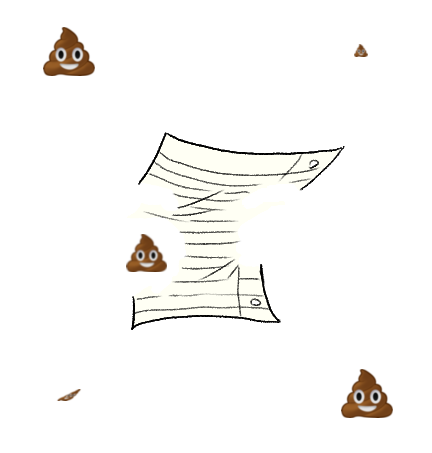
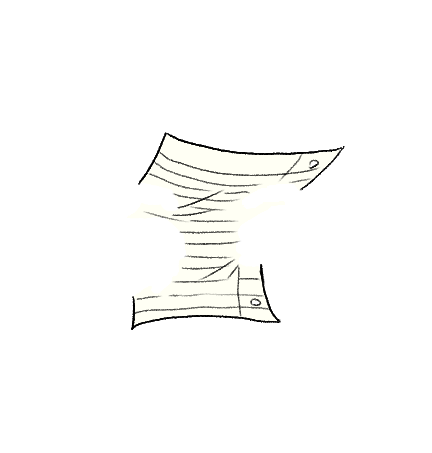
Added source/target differentiation for SpruceTask

diff --git a/addons/marathon_task_runner/task_runner/tasks/spruce/spruce.py b/addons/marathon_task_runner/task_runner/tasks/spruce/spruce.py
@@ -6,6 +6,7 @@ import sys
 import time
 from PIL import Image, ImageChops
 
+SUPPORTED_EXTS = [".png", ".jpg", ".jpeg"]
 progress = 0
 
 def str2bool(value: str) -> bool:
@@ -129,16 +130,20 @@ class Rect:
 
 
 class TargetImage:
-	def __init__(self, root, file):
-		self.root = root
-		self.file = file
-		self.full = os.path.join(root, file)
-		self.name, self.ext = os.path.splitext(file)
+	def __init__(self, dir_path_src, file_path_src, dir_path_tgt):
+		self.dir_path_src = dir_path_src
+		self.file_path_src = file_path_src
+		self.full_path_src = os.path.join(dir_path_src, file_path_src)
+		self.name, self.ext = os.path.splitext(file_path_src)
 
 		self.temp_path_new = os.path.join(args.temp_root, f"{self.name}__new{self.ext}")
 		self.temp_path_diff = os.path.join(args.temp_root, f"{self.name}__diff{self.ext}")
 
-		self.image : Image = Image.open(self.full).convert("RGBA")
+		self.dir_path_tgt = dir_path_tgt
+		self.file_path_tgt = self.file_path_src
+		self.full_path_tgt = os.path.join(dir_path_tgt, self.file_path_tgt)
+
+		self.image : Image = Image.open(self.full_path_src).convert("RGBA")
 
 
 	def process(self):
@@ -146,8 +151,8 @@ class TargetImage:
 
 		try:
 			os.makedirs(args.temp_root, exist_ok=True)
-			os.makedirs(os.path.dirname(self.full), exist_ok=True)
-			bus_set("output", "source_preview", f"\"{self.full}\"")
+			os.makedirs(self.dir_path_tgt, exist_ok=True)
+			bus_set("output", "source_preview", f"\"{self.full_path_src}\"")
 
 			## Initialize bitmap
 
@@ -227,7 +232,7 @@ class TargetImage:
 				if changes_exist:
 					changes.save(self.temp_path_diff)
 			else:
-				self.image.save(self.full)
+				self.image.save(self.full_path_tgt)
 
 			bus_set("output", "target_bitmap", f"\"{self.temp_path_diff}\"")
 			bus_set("output", "target_preview", f"\"{self.temp_path_new}\"")
@@ -237,38 +242,44 @@ class TargetImage:
 				os.remove(self.temp_path_diff)
 
 		except Exception as e:
-			sys.stderr.write(f"Error processing {self.full}: {e}")
+			sys.stderr.write(f"Error processing {self.full_path_src}: {e}")
 			progress -= 1
 
 		progress += 1
 		bus_set("output", "progress", progress)
 
 
-def assign_targets():
+def assign_image_targets():
 	result = []
+	include_any = args.filter_include != ""
+	exclude_any = args.filter_exclude != ""
 	include = re.compile(args.filter_include)
 	exclude = re.compile(args.filter_exclude)
-	for root, _, files in os.walk(args.target):
+
+	for sub_dir, _, files in os.walk(args.source):
 		for file in files:
-			if args.filter_include != "" and re.search(include, file) == None: continue
-			if args.filter_exclude != "" and re.search(exclude, file) != None: continue
-			try:
-				target = TargetImage(os.path.join(args.target, root), file)
-			except: continue
+			name, ext = os.path.splitext(file)
+			if not ext.lower() in SUPPORTED_EXTS: continue
+
+			if include_any and re.search(include, name) == None: continue
+			if exclude_any and re.search(exclude, name) != None: continue
+
+			target = TargetImage(os.path.join(args.source, sub_dir), file, os.path.join(args.target, sub_dir))
 			result.append(target)
+
 	return result
 
 
 def main():
 	bus_set("output", "progress", 0)
-	if os.path.isdir(args.target):
-		targets = assign_targets()
+	if os.path.isdir(args.source):
+		targets = assign_image_targets()
 		bus_set("output", "progress_max", len(targets))
 		for target in targets:
 			if bus_get("input", "stop"): sys.exit(1)
 			target.process()
-	elif os.path.isfile(args.target):
-		target = TargetImage(os.path.dirname(args.target), os.path.basename(args.target))
+	elif os.path.isfile(args.source):
+		target = TargetImage(os.path.dirname(args.source), os.path.basename(args.source), os.path.dirname(args.target))
 		bus_set("output", "progress_max", 1)
 		target.process()
 	else:
@@ -280,6 +291,7 @@ if __name__ == "__main__":
 	parser = argparse.ArgumentParser()
 	parser.add_argument("bus_path", type=str)
 	parser.add_argument("temp_root", type=str)
+	parser.add_argument("source", type=str)
 	parser.add_argument("target", type=str)
 	parser.add_argument("review_changes", type=str2bool)
 	parser.add_argument("filter_include", type=str)

diff --git a/addons/marathon_task_runner/task_runner/tasks/laigter/laigter.py b/addons/marathon_task_runner/task_runner/tasks/laigter/laigter.py
@@ -78,7 +78,7 @@ class TargetImage:
 		global progress
 		try:
 			bus_set("output", "source_preview", f"\"{self.full_path_src}\"")
-			os.makedirs(os.path.dirname(self.full_path_tgt), exist_ok=True)
+			os.makedirs(self.dir_path_tgt, exist_ok=True)
 
 			result_path = os.path.join(self.dir_path_src, f"{self.name}{self.ext}")
 
@@ -116,6 +116,7 @@ def assign_image_targets():
 	exclude_any = args.filter_exclude != ""
 	include_regex = re.compile(args.filter_include)
 	exclude_regex = re.compile(args.filter_exclude)
+
 	for sub_dir, _, files in os.walk(args.source):
 		for file in files:
 			name, ext = os.path.splitext(file)
@@ -124,10 +125,11 @@ def assign_image_targets():
 			if include_any and re.search(include_regex, name) == None: continue
 			if exclude_any and re.search(exclude_regex, name) != None: continue
 
-			target = TargetImage(name, os.path.join(args.source, sub_dir), file, args.target)
+			target = TargetImage(name, os.path.join(args.source, sub_dir), file, os.path.join(args.target, sub_dir))
 			if not args.overwrite and os.path.exists(target.full_path_tgt): continue
 
 			result.append(target)
+
 	return result
 
 

diff --git a/addons/marathon_task_runner/task_runner/tasks/spruce/SpruceTask.md b/addons/marathon_task_runner/task_runner/tasks/spruce/SpruceTask.md
@@ -11,7 +11,10 @@ All images within this folder (and subfolders) will be processed.
 
 
 #### `target_dir`
-All images processed will be placed in this folder, preserving any subfolders.
+All images processed will be placed in this folder, preserving any subfolders. If unset, will use [`source_dir`](#source_dir).]
+
+> [!TIP]
+> It is generally recommended to leave this value blank (defaulting to `source_dir`), so that the files can be manually reviewed and then overwritten. This can help speed up future iterations as unchanged images will not appear in the Review List.
 
 
 #### `filter_include`